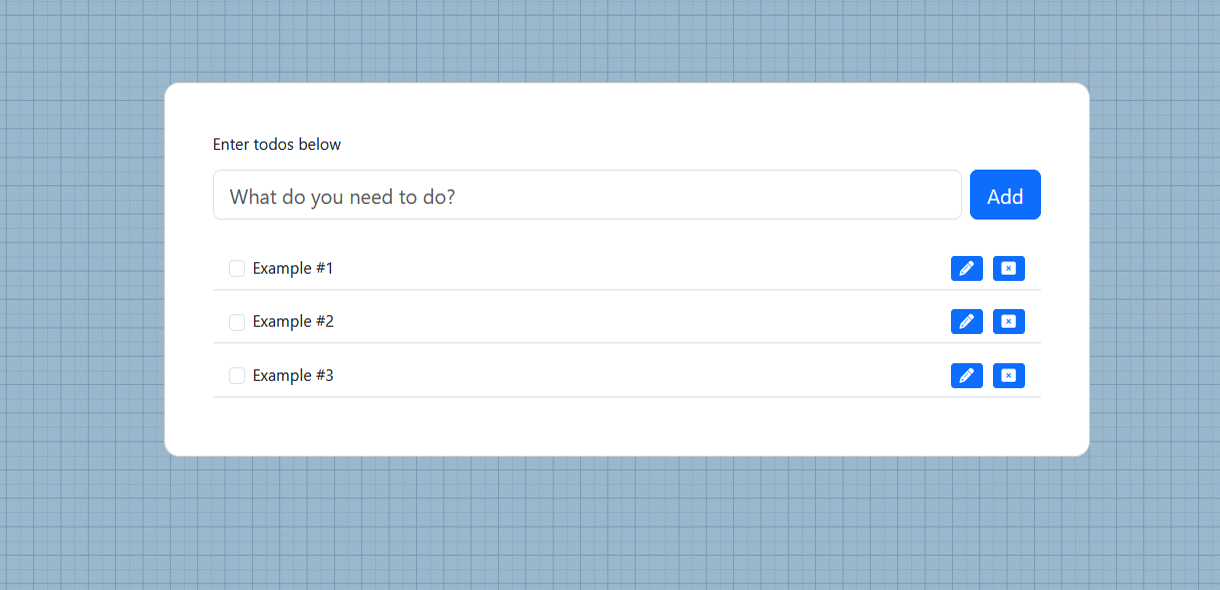
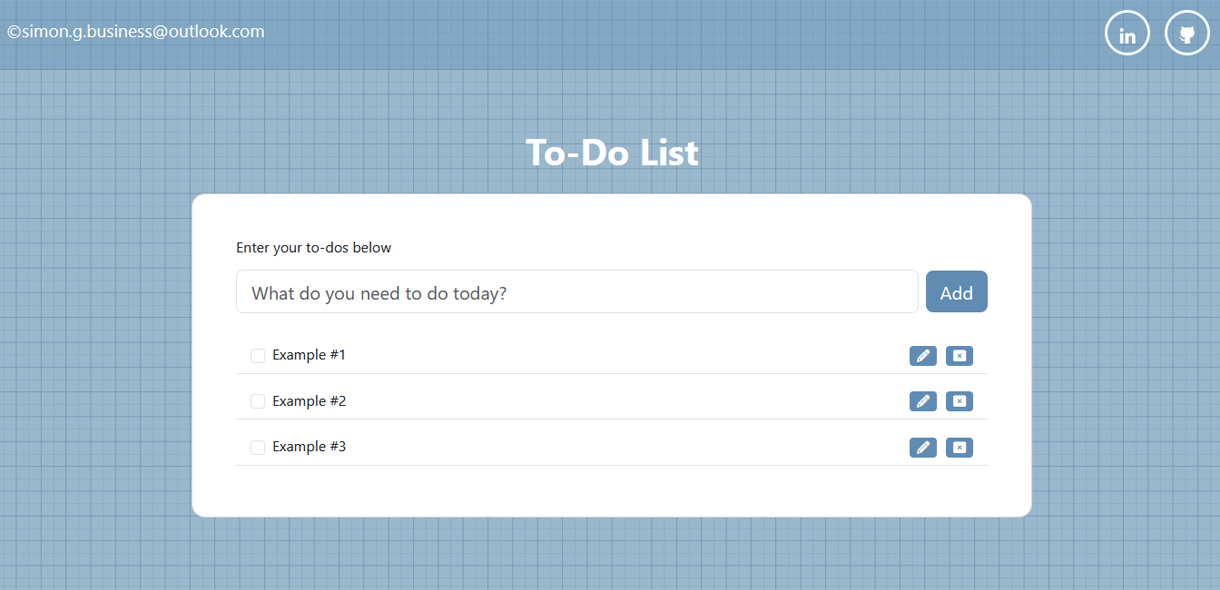
Updated project images.

diff --git a/main.html b/main.html
@@ -74,7 +74,7 @@
 
                                 <div class="project-description">
                                     <h2 class="project-title"><a class="github-icon" target="_blank"
-                                            href="https://sg-todo-list.onrender.com">Todo-List</a></h2>
+                                            href="https://sg-todo-list.onrender.com">To-Do List</a></h2>
 
                                 </div>
 
@@ -87,7 +87,7 @@
                                     <div class="project-overlay">
                                         <div class="overlay-content">
 
-                                            <p class="overlay-text">A todo-list for myself built with Node.js, Typescript, MongoDB and Jest.
+                                            <p class="overlay-text">A to-do list for myself built with Node.js, Typescript, MongoDB and Jest.
                                             </p>
                                             <a class="overlay-link" target="_blank"
                                                 href="https://sg-todo-list.onrender.com">Visit Website
@@ -229,7 +229,7 @@
                                                 href=#project-1>Weather
                                                 </a></div>
                                         <div class="link-cont"> <a class="link" id="link-1" rel="noopener"
-                                                href=#project-1>Todo-List</a></div>
+                                                href=#project-1>To-Do List</a></div>
                                         <div class="link-cont"> <a class="link" id="link-2" rel="noopener"
                                                 href=#project-2>Sh0. Circuit</a></div>
                                         <div class="link-cont"> <a class="link" id="link-4" rel="noopener"
